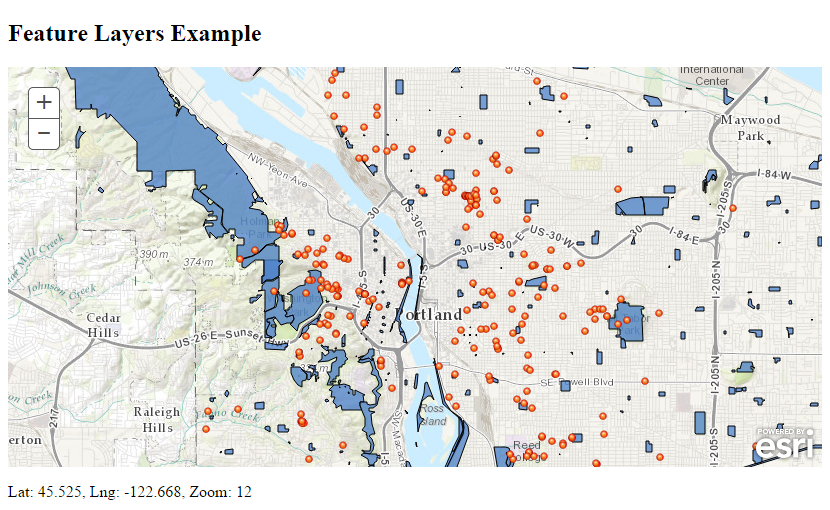
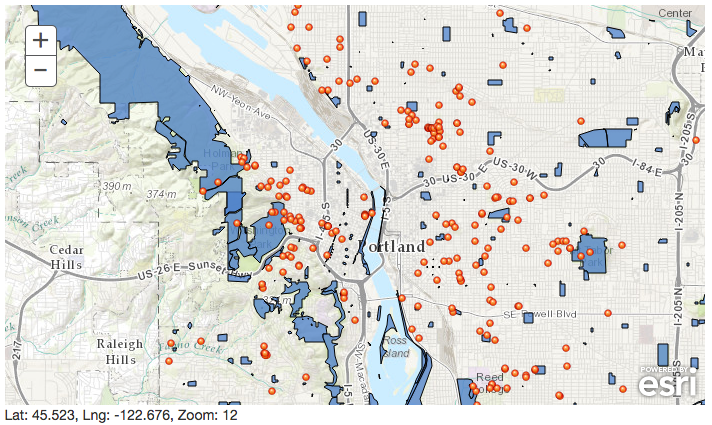
added dependencies and resources sections to readme. new screen shot

diff --git a/README.md b/README.md
@@ -1,13 +1,24 @@
 angular-esri-map
 ================
 
-A collection of directives to help you use Esri maps and services in your Angular apps.
+A collection of directives to help you use Esri maps and services in your Angular applications.
 
-### Demos
-Here are [a few demos](http://esri.github.io/angular-esri-map/) showing how to use this module to bring Esri maps into your own Angular applications.
+These directives can be used as-is if your mapping needs are simple, or as reference examples of the patterns that you can use to write your own directives that use the ArcGIS API for JavaScript. [Read more...](http://esri.github.io/angular-esri-map/#/about)
 
-### Example
-Here is a quick example to get you started. Just change the paths to point to the proper libraries and go.
+## Getting started
+Here are [a few examples](http://esri.github.io/angular-esri-map/) showing how you can use this module to bring Esri maps into your own Angular applications.
+
+### Quick Start
+
+To use these directives in your own Angular application, first install the module as a dependency using bower:
+
+```bash
+bower install angular-esri-map
+```
+
+Or clone or download this repo and copy the desired module file (`angular-esri-map.js` or `angular-esri-map.min.js`) into your application.
+
+Once you've added the module to your application, you can use the sample code below to use the map and feature layer directives. Just change the paths to point to the locations of the libraries in your environment and go.
 
 ![App](https://raw.github.com/Esri/angular-esri-map/master/angular-esri-map.png)
 
@@ -21,15 +32,14 @@ Here is a quick example to get you started. Just change the paths to point to th
         <link rel="stylesheet" type="text/css" href="http://js.arcgis.com/3.11/esri/css/esri.css">
     </head>
     <body ng-controller="MapController">
-        <h2>Feature Layers Example</h2>
-        <esri-map id="map" center="map.center" zoom="map.zoom" basemap="topo">
-            <esri-feature-layer url="http://services.arcgis.com/rOo16HdIMeOBI4Mb/arcgis/rest/services/Portland_Parks/FeatureServer/0"></esri-feature-layer>
-            <esri-feature-layer url="http://services.arcgis.com/rOo16HdIMeOBI4Mb/arcgis/rest/services/Heritage_Trees_Portland/FeatureServer/0"></esri-feature-layer>
-        </esri-map>
-        <p>Lat: {{ map.center.lat | number:3 }}, Lng: {{ map.center.lng | number:3 }}, Zoom: {{map.zoom}}</p>
+    <esri-map id="map" center="map.center" zoom="map.zoom" basemap="topo">
+        <esri-feature-layer url="http://services.arcgis.com/rOo16HdIMeOBI4Mb/arcgis/rest/services/Portland_Parks/FeatureServer/0"></esri-feature-layer>
+        <esri-feature-layer url="http://services.arcgis.com/rOo16HdIMeOBI4Mb/arcgis/rest/services/Heritage_Trees_Portland/FeatureServer/0"></esri-feature-layer>
+    </esri-map>
+    <p>Lat: {{ map.center.lat | number:3 }}, Lng: {{ map.center.lng | number:3 }}, Zoom: {{map.zoom}}</p>
         <script type="text/javascript" src="http://js.arcgis.com/3.11compact"></script>
         <script src="http://ajax.googleapis.com/ajax/libs/angularjs/1.2.16/angular.js"></script>
-        <script src="../dist/angular-esri-map.js"></script>
+        <script src="path/to/angular-esri-map.js"></script>
         <script type="text/javascript">
             angular.module('esri-map-example', ['esri.map'])
                 .controller('MapController', function ($scope) {
@@ -46,16 +56,33 @@ Here is a quick example to get you started. Just change the paths to point to th
 </html>
 ```
 
-### Development Instructions
+See the documentation for [examples](http://esri.github.io/angular-esri-map/#examples) of how to use the other directives.
+
+## Development Instructions
 
 Make sure you have [Node](http://nodejs.org/) and  [Gulp](https://github.com/gulpjs/gulp/blob/master/docs/getting-started.md#getting-started) installed.
 
 1. [Fork and clone this repo](https://help.github.com/articles/fork-a-repo)
 2. `cd` into the `angular-esri-map` folder
-5. Install the dependencies with `npm install`
-5. run `gulp` from the command line. This will start watching the source files and running linting and build commands.
-6. Browse to the example pages under the `examples` folder
-7. Make your changes and create a [pull request](https://help.github.com/articles/creating-a-pull-request)
+3. Install the dependencies with `npm install`
+4. run `gulp` from the command line. This will run the linting and build commands and then start a local web server hosting the application under the `docs` folder
+5. Modify the directive source files (under `src`) or documentation (under `docs`) and your browser will automatically reload as you save your changes
+6. Make a [pull request](https://help.github.com/articles/creating-a-pull-request) to contribute your changes
+
+## Dependencies
+
+These directives were built using Angular v1.2 (specifically 1.2.16) and the ArcGIS API for JavaScript v3.11. They will likely work with other verstions of those frameworks, but have not been tested outside of the above versions.
+
+You will need [Node](http://nodejs.org/) and [Gulp](https://github.com/gulpjs/gulp/blob/master/docs/getting-started.md#getting-started) to do local development.
+
+## Resources
+
+* [Angular JS](https://angularjs.org/)
+* [ArcGIS API for JavaScript](//js.arcgis.com)
+* [ArcGIS for Developers](http://developers.arcgis.com)
+* [ArcGIS REST API](http://resources.arcgis.com/en/help/arcgis-rest-api/)
+* [Importing Data Into Feature Services](https://developers.arcgis.com/tools/csv-to-feature-service/)
+* [@Esri](http://twitter.com/esri)
 
 ## Issues
 
